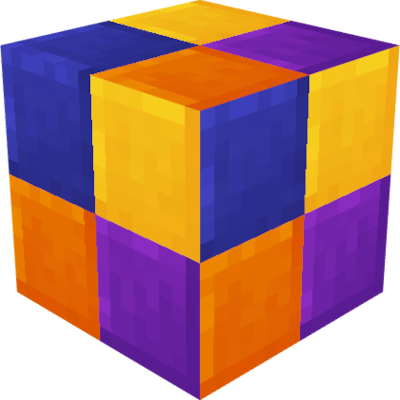
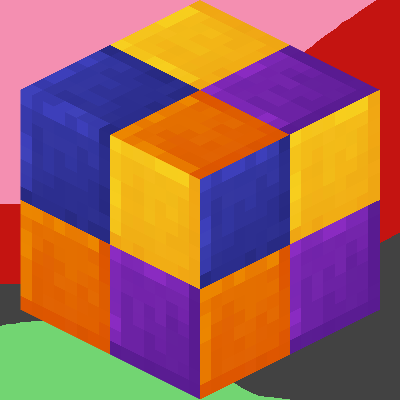
6/22/26 morning

diff --git a/src/main/java/com/proctoredgames/tiled/item/ModItems.java b/src/main/java/com/proctoredgames/tiled/item/ModItems.java
@@ -1,0 +1,54 @@
+package com.proctoredgames.tiled.item;
+
+import com.proctoredgames.tiled.Tiled;
+import net.minecraft.item.Item;
+import net.minecraft.registry.Registries;
+import net.minecraft.registry.Registry;
+import net.minecraft.util.Identifier;
+
+public class ModItems {
+
+    public static final Item SMALL_WHITE_TILES = registerItem("small_white_tiles", new Item(new Item.Settings()));
+    public static final Item SMALL_ORANGE_TILES = registerItem("small_orange_tiles", new Item(new Item.Settings()));
+    public static final Item SMALL_MAGENTA_TILES = registerItem("small_magenta_tiles", new Item(new Item.Settings()));
+    public static final Item SMALL_LIGHT_BLUE_TILES = registerItem("small_light_blue_tiles", new Item(new Item.Settings()));
+    public static final Item SMALL_YELLOW_TILES = registerItem("small_yellow_tiles", new Item(new Item.Settings()));
+    public static final Item SMALL_LIME_TILES = registerItem("small_lime_tiles", new Item(new Item.Settings()));
+    public static final Item SMALL_PINK_TILES = registerItem("small_pink_tiles", new Item(new Item.Settings()));
+    public static final Item SMALL_GRAY_TILES = registerItem("small_gray_tiles", new Item(new Item.Settings()));
+    public static final Item SMALL_LIGHT_GRAY_TILES = registerItem("small_light_gray_tiles", new Item(new Item.Settings()));
+    public static final Item SMALL_CYAN_TILES = registerItem("small_cyan_tiles", new Item(new Item.Settings()));
+    public static final Item SMALL_PURPLE_TILES = registerItem("small_purple_tiles", new Item(new Item.Settings()));
+    public static final Item SMALL_BLUE_TILES = registerItem("small_blue_tiles", new Item(new Item.Settings()));
+    public static final Item SMALL_BROWN_TILES = registerItem("small_brown_tiles", new Item(new Item.Settings()));
+    public static final Item SMALL_GREEN_TILES = registerItem("small_green_tiles", new Item(new Item.Settings()));
+    public static final Item SMALL_RED_TILES = registerItem("small_red_tiles", new Item(new Item.Settings()));
+    public static final Item SMALL_BLACK_TILES = registerItem("small_black_tiles", new Item(new Item.Settings()));
+
+    public static final Item WHITE_TILES = registerItem("white_tiles", new Item(new Item.Settings()));
+    public static final Item ORANGE_TILES = registerItem("orange_tiles", new Item(new Item.Settings()));
+    public static final Item MAGENTA_TILES = registerItem("magenta_tiles", new Item(new Item.Settings()));
+    public static final Item LIGHT_BLUE_TILES = registerItem("light_blue_tiles", new Item(new Item.Settings()));
+    public static final Item YELLOW_TILES = registerItem("yellow_tiles", new Item(new Item.Settings()));
+    public static final Item LIME_TILES = registerItem("lime_tiles", new Item(new Item.Settings()));
+    public static final Item PINK_TILES = registerItem("pink_tiles", new Item(new Item.Settings()));
+    public static final Item GRAY_TILES = registerItem("gray_tiles", new Item(new Item.Settings()));
+    public static final Item LIGHT_GRAY_TILES = registerItem("light_gray_tiles", new Item(new Item.Settings()));
+    public static final Item CYAN_TILES = registerItem("cyan_tiles", new Item(new Item.Settings()));
+    public static final Item PURPLE_TILES = registerItem("purple_tiles", new Item(new Item.Settings()));
+    public static final Item BLUE_TILES = registerItem("blue_tiles", new Item(new Item.Settings()));
+    public static final Item BROWN_TILES = registerItem("brown_tiles", new Item(new Item.Settings()));
+    public static final Item GREEN_TILES = registerItem("green_tiles", new Item(new Item.Settings()));
+    public static final Item RED_TILES = registerItem("red_tiles", new Item(new Item.Settings()));
+    public static final Item BLACK_TILES = registerItem("black_tiles", new Item(new Item.Settings()));
+
+    public static final Item TILE_TROWEL = registerItem("tile_trowel", new Item(new Item.Settings()));
+
+    private static Item registerItem(String name, Item item) {
+        return Registry.register(Registries.ITEM, Identifier.of(Tiled.MOD_ID, name), item);
+    }
+
+    public static void registerModItems() {
+        Tiled.LOGGER.info("Registering Mod Items for " + Tiled.MOD_ID);
+    }
+}

diff --git a/src/main/java/com/proctoredgames/tiled/item/ModItemGroups.java b/src/main/java/com/proctoredgames/tiled/item/ModItemGroups.java
@@ -27,6 +27,39 @@ public class ModItemGroups {
             FabricItemGroup.builder().icon(() -> TileBlockBE.getStackWith(icon_tiles))
                     .displayName(Text.translatable("itemgroup.tiled.tiled"))
                     .entries((displayContext, entries) -> {
+                        entries.add(ModItems.SMALL_WHITE_TILES);
+                        entries.add(ModItems.SMALL_ORANGE_TILES);
+                        entries.add(ModItems.SMALL_MAGENTA_TILES);
+                        entries.add(ModItems.SMALL_LIGHT_BLUE_TILES);
+                        entries.add(ModItems.SMALL_YELLOW_TILES);
+                        entries.add(ModItems.SMALL_LIME_TILES);
+                        entries.add(ModItems.SMALL_PINK_TILES);
+                        entries.add(ModItems.SMALL_GRAY_TILES);
+                        entries.add(ModItems.SMALL_LIGHT_GRAY_TILES);
+                        entries.add(ModItems.SMALL_CYAN_TILES);
+                        entries.add(ModItems.SMALL_PURPLE_TILES);
+                        entries.add(ModItems.SMALL_BLUE_TILES);
+                        entries.add(ModItems.SMALL_BROWN_TILES);
+                        entries.add(ModItems.SMALL_GREEN_TILES);
+                        entries.add(ModItems.SMALL_RED_TILES);
+                        entries.add(ModItems.SMALL_BLACK_TILES);
+                        entries.add(ModItems.WHITE_TILES);
+                        entries.add(ModItems.ORANGE_TILES);
+                        entries.add(ModItems.MAGENTA_TILES);
+                        entries.add(ModItems.LIGHT_BLUE_TILES);
+                        entries.add(ModItems.YELLOW_TILES);
+                        entries.add(ModItems.LIME_TILES);
+                        entries.add(ModItems.PINK_TILES);
+                        entries.add(ModItems.GRAY_TILES);
+                        entries.add(ModItems.LIGHT_GRAY_TILES);
+                        entries.add(ModItems.CYAN_TILES);
+                        entries.add(ModItems.PURPLE_TILES);
+                        entries.add(ModItems.BLUE_TILES);
+                        entries.add(ModItems.BROWN_TILES);
+                        entries.add(ModItems.GREEN_TILES);
+                        entries.add(ModItems.RED_TILES);
+                        entries.add(ModItems.BLACK_TILES);
+                        entries.add(ModItems.TILE_TROWEL);
                         entries.add(ModBlocks.TILING_TABLE);
                     }).build());
 

diff --git a/src/main/java/com/proctoredgames/tiled/block/ModBlocks.java b/src/main/java/com/proctoredgames/tiled/block/ModBlocks.java
@@ -19,6 +19,12 @@ public class ModBlocks {
     public static final Block TILE_BLOCK = registerBlock("tile_block",
             new TileBlock(AbstractBlock.Settings.copy(Blocks.WHITE_CONCRETE)));
 
+    public static final Block SMALL_TILES = registerBlock("small_tiles",
+            new SmallTileBlock(AbstractBlock.Settings.copy(Blocks.WHITE_CONCRETE)));
+
+    public static final Block TILES = registerBlock("tiles",
+            new TileBlock(AbstractBlock.Settings.copy(Blocks.WHITE_CONCRETE)));
+
     public static final Block TILING_TABLE = registerBlock("tiling_table",
             new TilingTableBlock(AbstractBlock.Settings.copy(Blocks.POLISHED_ANDESITE)));
 

diff --git a/src/main/java/com/proctoredgames/tiled/Tiled.java b/src/main/java/com/proctoredgames/tiled/Tiled.java
@@ -8,6 +8,7 @@ import com.proctoredgames.tiled.block.entity.records.SmallTiles;
 import com.proctoredgames.tiled.block.entity.records.Tiles;
 import com.proctoredgames.tiled.component.ModDataComponentTypes;
 import com.proctoredgames.tiled.item.ModItemGroups;
+import com.proctoredgames.tiled.item.ModItems;
 import com.proctoredgames.tiled.recipe.ModRecipeSerializers;
 import com.proctoredgames.tiled.recipe.ModRecipes;
 import com.proctoredgames.tiled.screen.ModScreenHandlers;
@@ -33,6 +34,7 @@ public class Tiled implements ModInitializer {
 	@Override
 	public void onInitialize() {
 		ModItemGroups.registerItemGroups();
+		ModItems.registerModItems();
 		ModBlocks.registerModBlocks();
 		ModBlockEntities.registerBlockEntities();
 		ModDataComponentTypes.registerDataComponentTypes();